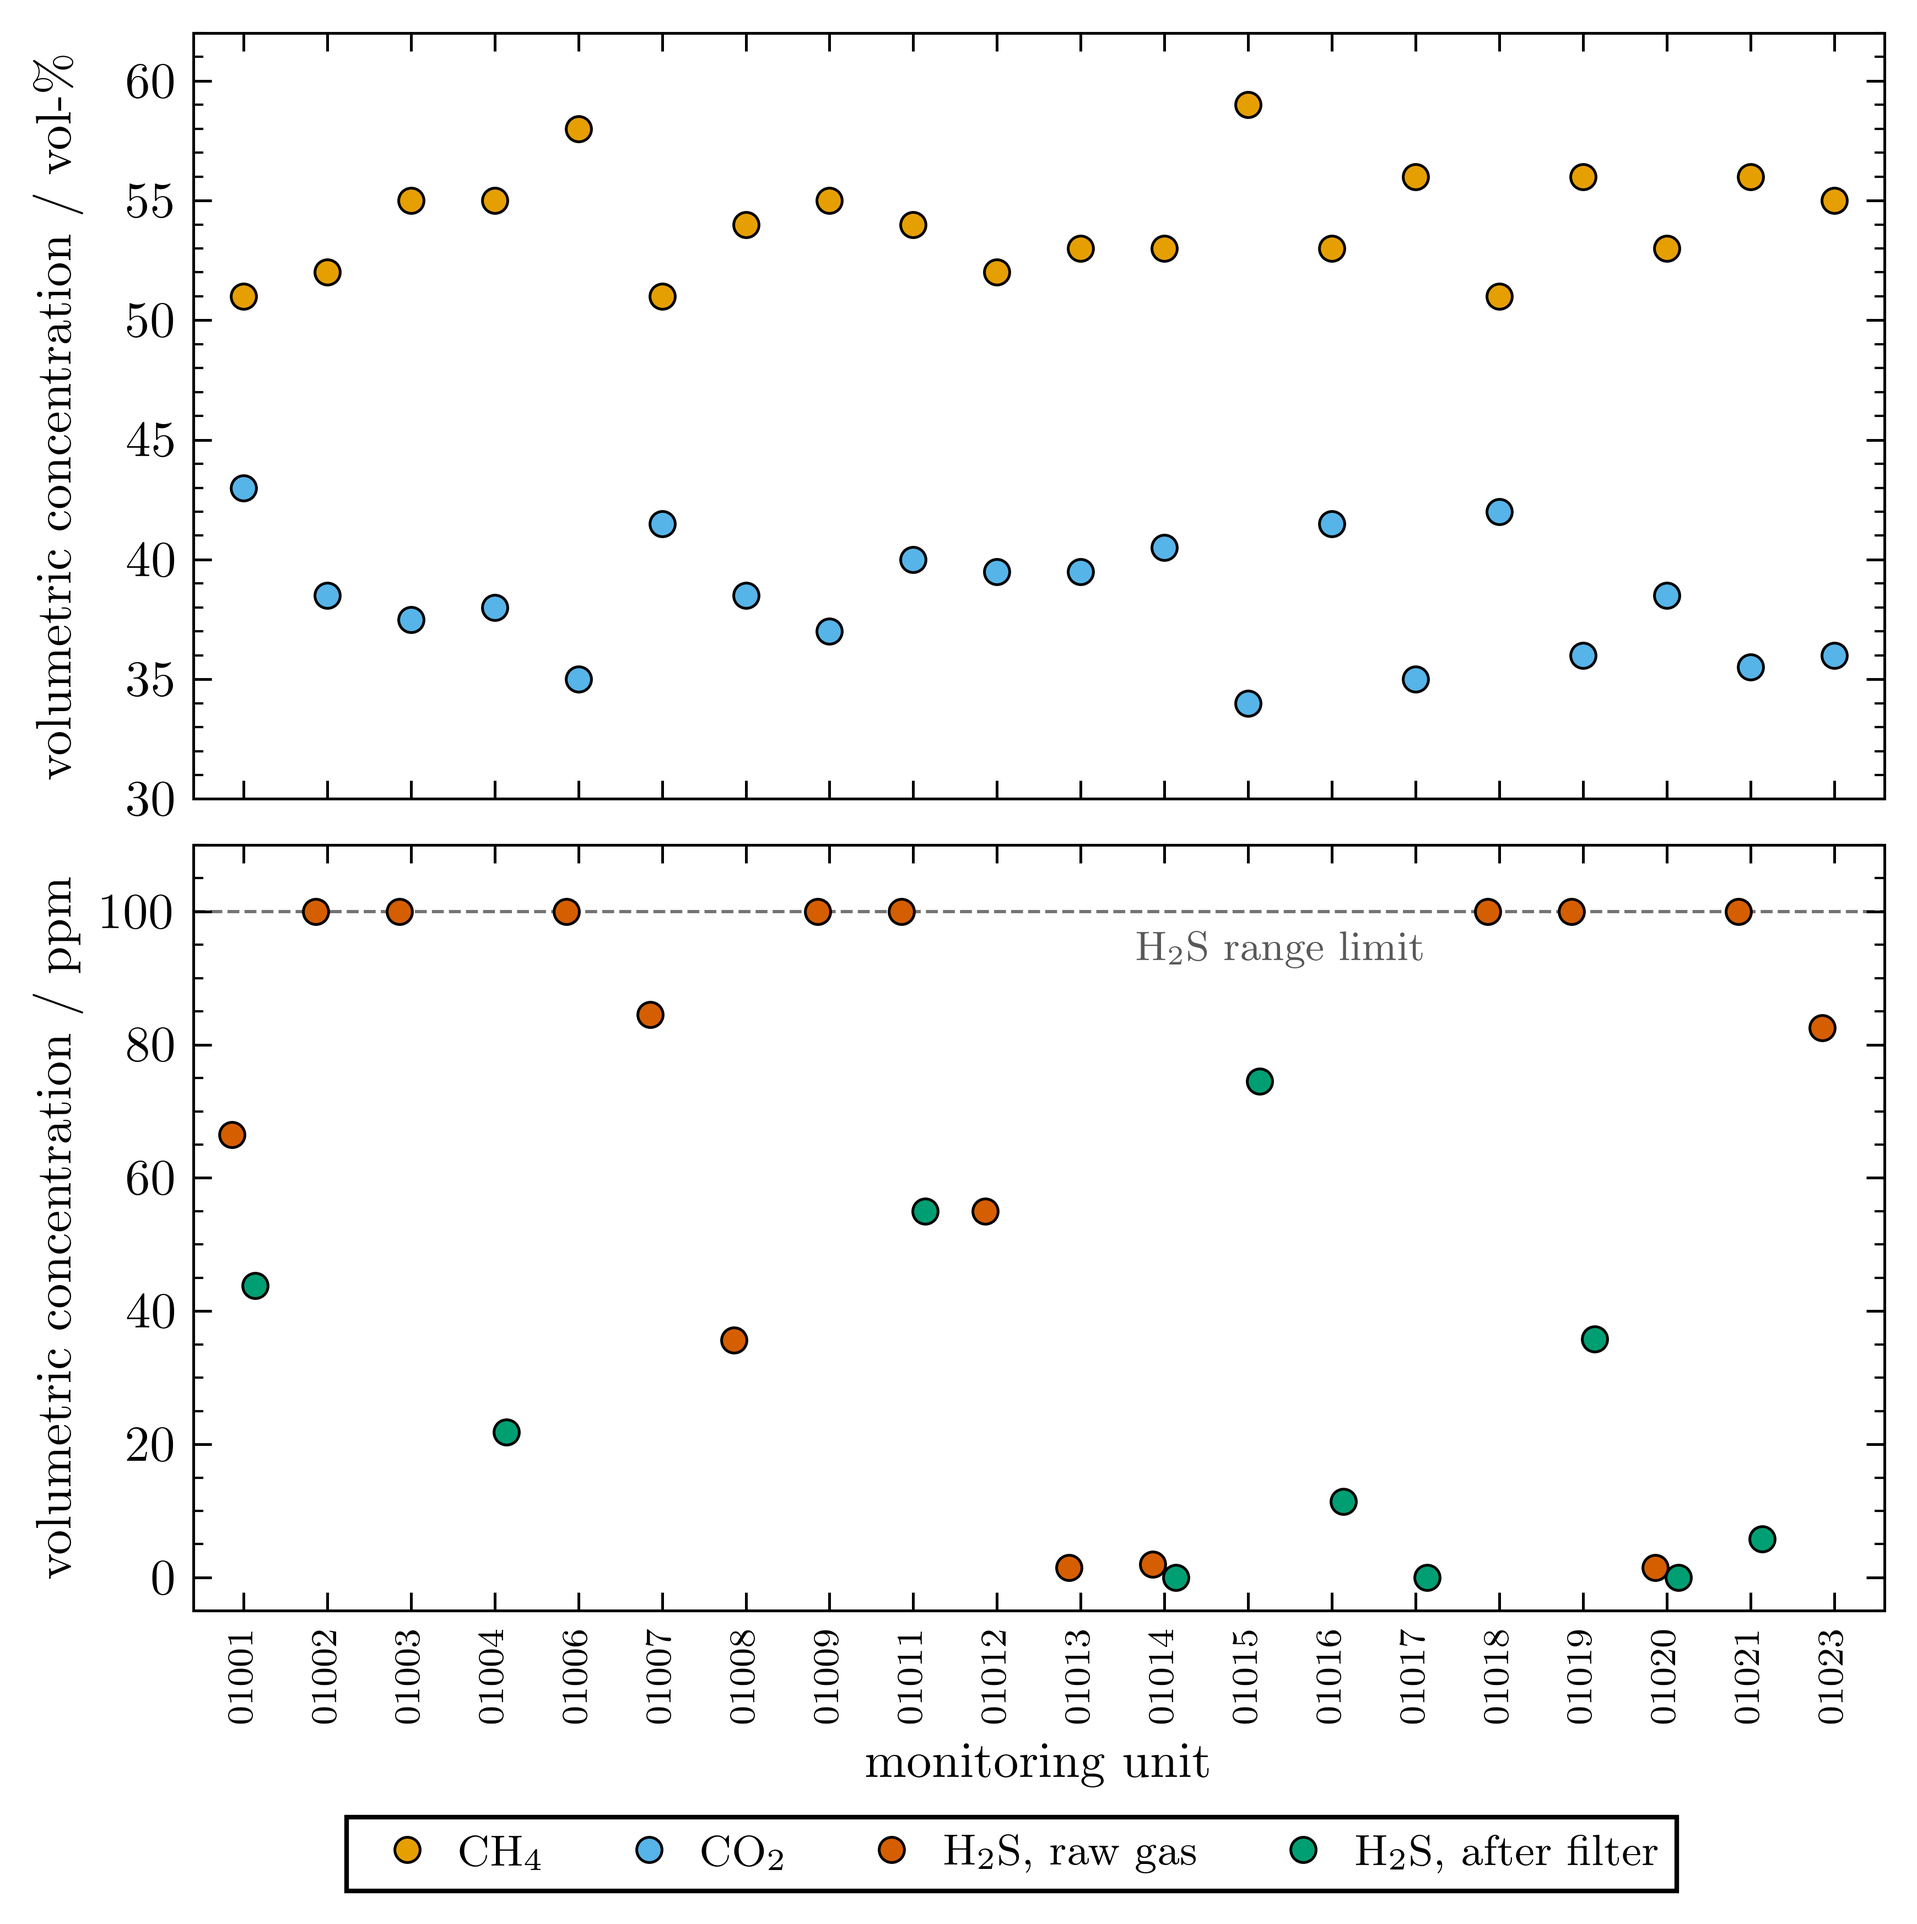
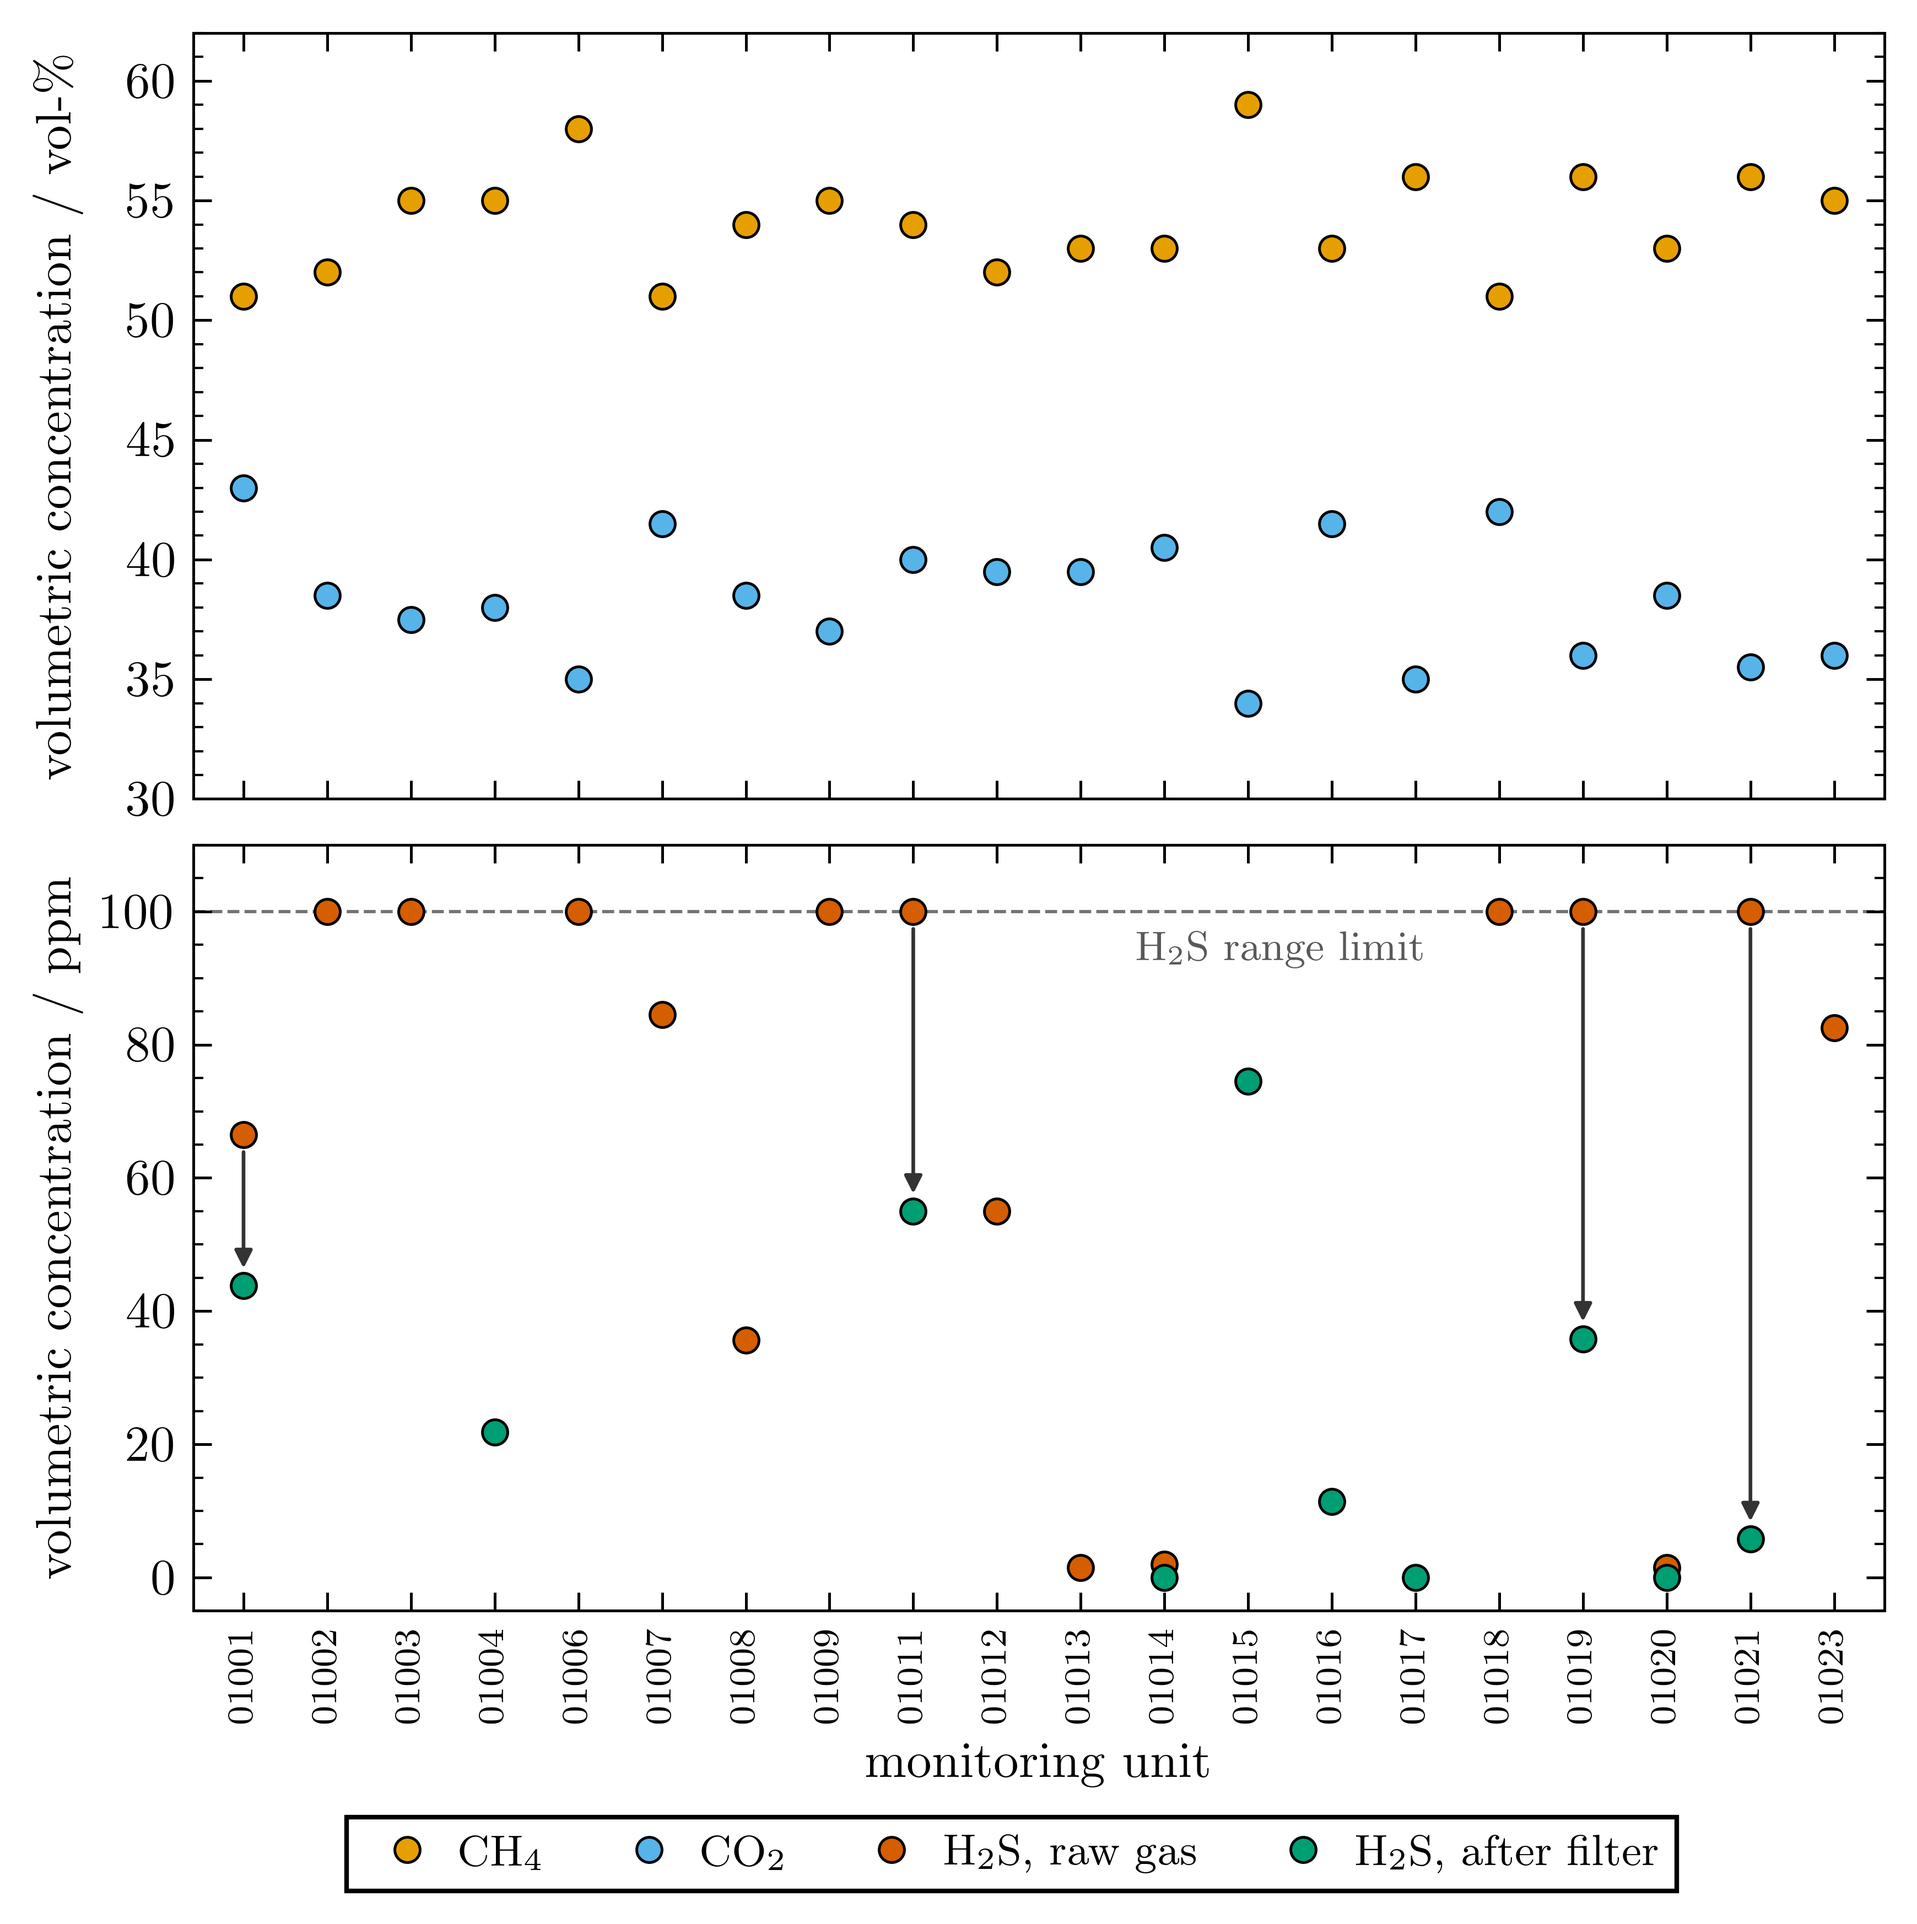
Figure 5: H2S before and after the filter on one vertical, joined by an arrow

diff --git a/make_figures.py b/make_figures.py
@@ -285,17 +285,18 @@ def fig_composition(t: pd.DataFrame | None = None):
     """Figure 5: reference biogas composition per household digester (Dräger X-am 8000).
 
     Top: CH4 and CO2 in vol-%. Bottom: H2S in ppm before and after the
-    household's H2S filter, side by side at each unit; the dashed line is the
-    analyser's upper range limit, and readings there were at or above it. One
-    legend in a single row below the unit axis. ``t`` is ``composition_table()``
-    (read when None).
+    household's H2S filter, on one vertical per unit, with an arrow from the
+    raw-gas to the after-filter reading where both were measured (left out
+    where the two markers overlap); the dashed line is the analyser's upper
+    range limit, and readings there were at or above it. One legend in a
+    single row below the unit axis. ``t`` is ``composition_table()`` (read
+    when None). Returns the (closed) figure.
     """
     from matplotlib.lines import Line2D
     t = composition_table() if t is None else t
     x = np.arange(len(t))
     series = {"CH4": r"CH$_4$", "CO2": r"CO$_2$",
               "H2S_raw": r"H$_2$S, raw gas", "H2S_filtered": r"H$_2$S, after filter"}
-    dodge = {"CH4": 0.0, "CO2": 0.0, "H2S_raw": -0.14, "H2S_filtered": 0.14}
     fig, (ax_v, ax_p) = plt.subplots(2, 1, figsize=(6.6, 6.2), sharex=True,
                                      gridspec_kw={"hspace": 0.06})
     ax_p.axhline(H2S_RANGE_PPM, color="0.45", lw=0.7, ls="--", zorder=1)
@@ -303,10 +304,18 @@ def fig_composition(t: pd.DataFrame | None = None):
               fontsize=9, ha="center", va="top")
     for col, label in series.items():
         ax = ax_v if col in ("CH4", "CO2") else ax_p
-        ax.plot(x + dodge[col], t[col], "o", ms=5.5, mfc=COMPOSITION_COLOURS[col],
-                mec="black", mew=0.6, ls="none", zorder=3, clip_on=False)
+        ax.plot(x, t[col], "o", ms=5.5, mfc=COMPOSITION_COLOURS[col], mec="black",
+                mew=0.6, ls="none", zorder=3, clip_on=False, gid=col)
     ax_v.set_ylim(30, 62)
     ax_p.set_ylim(-5, 110)
+    # effect of the H2S filter: raw-gas reading -> after-filter reading
+    pts_per_ppm = ax_p.get_window_extent().height / np.diff(ax_p.get_ylim())[0] * 72 / fig.dpi
+    for xi, raw, filt in zip(x, t["H2S_raw"], t["H2S_filtered"]):
+        if np.isnan(raw) or np.isnan(filt) or abs(raw - filt) * pts_per_ppm < 8:
+            continue
+        ax_p.annotate("", xy=(float(xi), float(filt)), xytext=(float(xi), float(raw)), zorder=2,
+                      arrowprops=dict(arrowstyle="-|>", color="0.2", lw=0.8, mutation_scale=8,
+                                      shrinkA=3.8, shrinkB=3.8))
     ax_v.set_ylabel(r"volumetric concentration / vol-\%")
     ax_p.set_ylabel(r"volumetric concentration / ppm")
     ax_p.set_xlabel(r"monitoring unit")
@@ -329,6 +338,7 @@ def fig_composition(t: pd.DataFrame | None = None):
     fig.savefig(OUT / "Figure_5.png")
     fig.savefig(OUT / "Figure_5.pdf")
     plt.close(fig)
+    return fig
 
 
 def daily_profiles(sen="SN_01015", min_day_records=20) -> pd.DataFrame:

diff --git a/test_composition.py b/test_composition.py
@@ -68,3 +68,18 @@ def test_fig_composition_writes_figure_5(tmp_path, monkeypatch):
     fig_composition(composition_table(RAW))
     assert (tmp_path / "Figure_5.png").stat().st_size > 0
     assert (tmp_path / "Figure_5.pdf").stat().st_size > 0
+
+
+def test_h2s_before_and_after_sit_on_one_vertical_joined_by_an_arrow(tmp_path, monkeypatch):
+    monkeypatch.setattr(make_figures, "OUT", tmp_path)
+    set_mpl()
+    t = composition_table(RAW)
+    fig = fig_composition(t)
+    ax = fig.axes[1]
+    lines = {ln.get_gid(): ln for ln in ax.lines if ln.get_gid()}
+    assert list(lines["H2S_raw"].get_xdata()) == list(lines["H2S_filtered"].get_xdata())
+    # only 01001 (x = 0) was measured before and after the filter: one arrow, top to bottom
+    from matplotlib.text import Annotation
+    arrows = [a for a in ax.texts if isinstance(a, Annotation)]
+    assert len(arrows) == 1
+    assert arrows[0].xyann == (0, 66.5) and arrows[0].xy == (0, 43.8)

diff --git a/figures/README.md b/figures/README.md
@@ -8,7 +8,7 @@ The paper's figures, numbered as in the manuscript.
 | `Figure_2.{png,pdf}` | `../make_figures.py` `fig_validity` (data validity per unit-day) |
 | `Figure_3.{png,pdf}` | `../make_figures.py` `fig_diurnal` (one household's daily use rhythm) |
 | `Figure_4.{png,pdf}` | `../make_figures.py` `fig_use` (daily gas volume, top, and cooking duration, bottom, per household) |
-| `Figure_5.{png,pdf}` | `../make_figures.py` `fig_composition` (reference gas composition per household digester: CH4 and CO2, top; H2S before and after the filter, bottom) |
+| `Figure_5.{png,pdf}` | `../make_figures.py` `fig_composition` (reference gas composition per household digester: CH4 and CO2, top; H2S before and after the filter, joined by arrows, bottom) |
 | `graphical_abstract.{svg,pdf}` | `../make_graphical_abstract.py` (journal graphical abstract, vector) |
 
 The generated figures are committed as the paper versions; re-running

diff --git a/README.md b/README.md
@@ -73,7 +73,8 @@ household's normalised, shape-only use rhythm, not the cohort analysis.
   household digester, from the dataset's `biogas_composition.json` (Dräger
   X-am 8000 spot readings, treated as ground truth). Top: CH4 and CO2 in vol-%.
   Bottom: H2S in ppm in the raw gas and after the household's H2S filter,
-  where each was measured. H2S readings logged as `"max"` are drawn at the
+  where each was measured, on one vertical per unit; an arrow joins the two
+  where both were measured and the markers do not overlap. H2S readings logged as `"max"` are drawn at the
   analyser's 100 ppm upper range limit (dashed line). CO and NH3 are not shown.
   The CH4, CO2 and O2 values come from the raw-gas reading, or from the
   after-filter reading for the four units measured only there.
